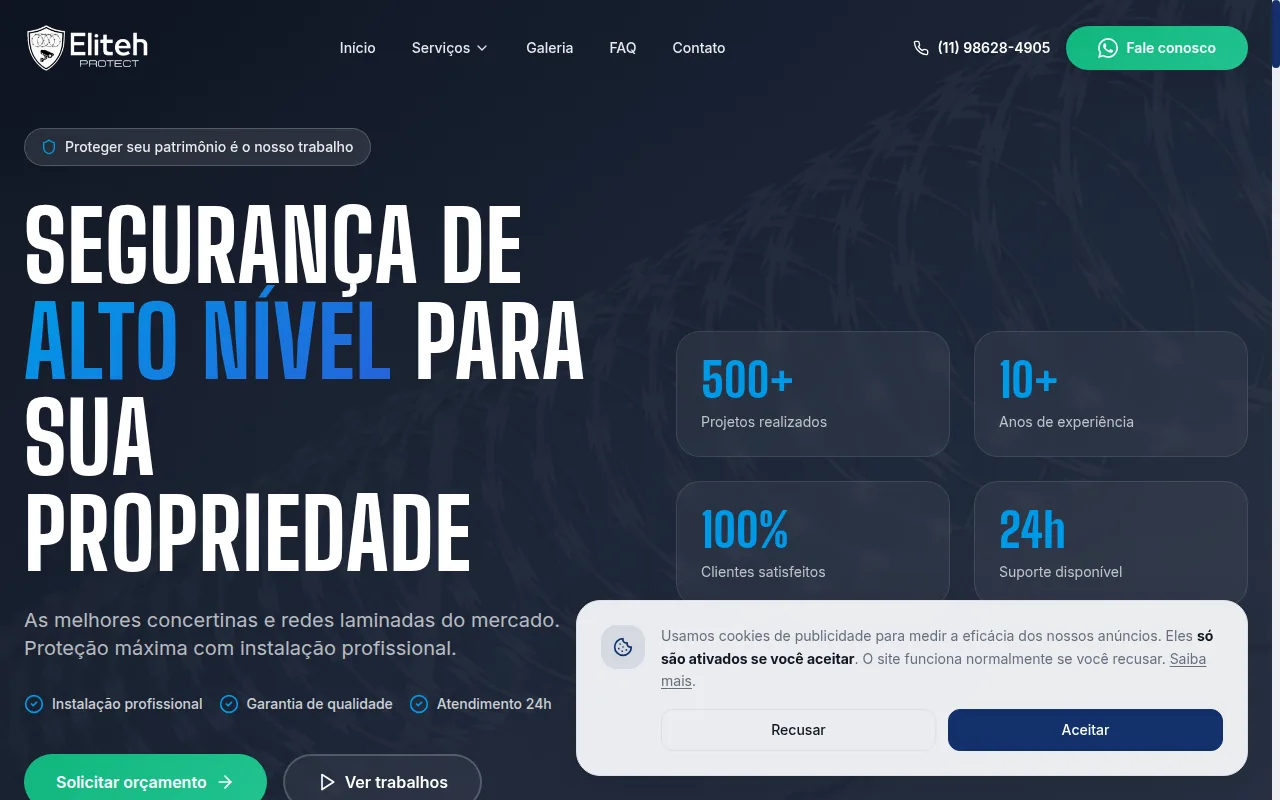
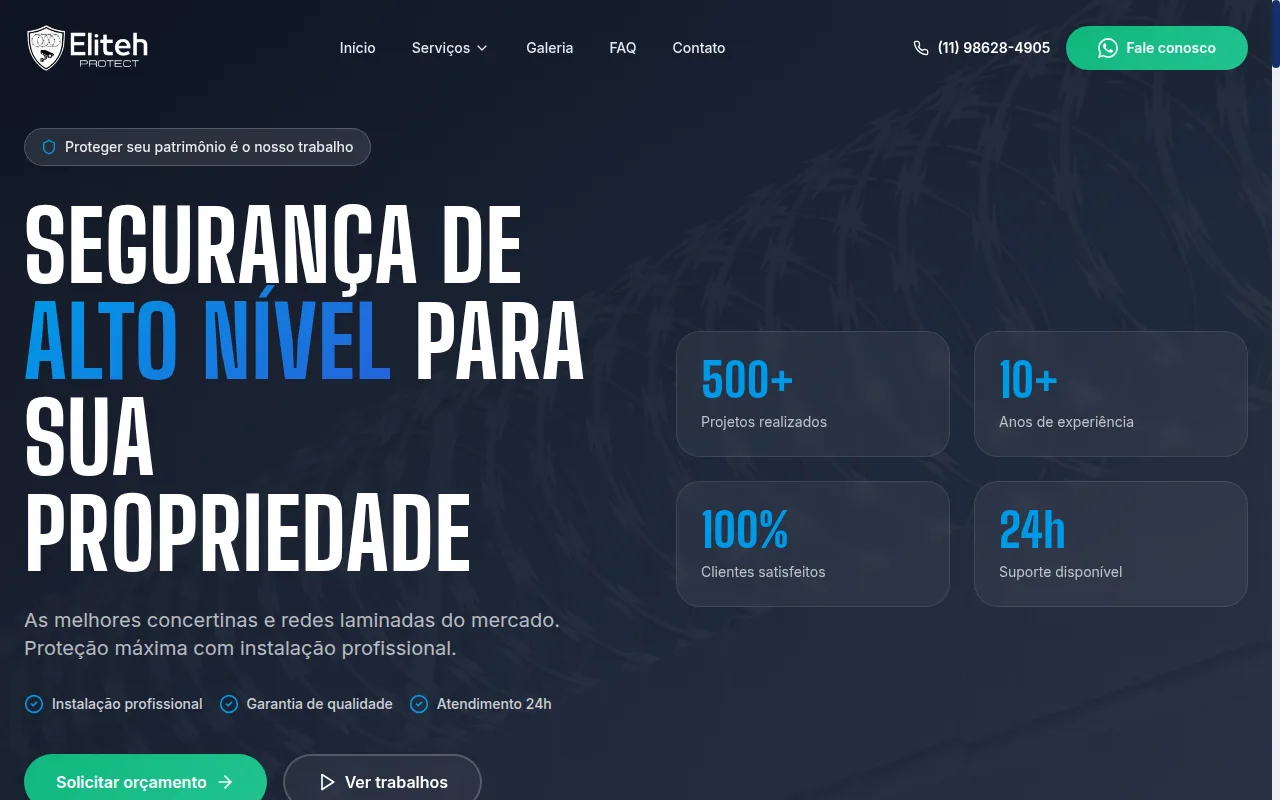
PORTFOLIO | FIX | capas dos projetos sem corte, Eliteh sem caixa de cookies e fotos originais em alta (3x4 no topo, 9:16 no sobre)

Changed region(s): [[0.4375, 0.75, 1.0, 0.9688]]

diff --git a/src/components/landing/sections.tsx b/src/components/landing/sections.tsx
@@ -9,13 +9,12 @@ import {
   useReducedMotion,
   useScroll,
   useTransform,
-  type MotionValue,
 } from "motion/react";
 import { ArrowRight, ArrowUpRight, X } from "lucide-react";
 import type { Project } from "@/lib/types";
 import { useI18n } from "@/lib/i18n";
 import { career, education } from "@/data/career";
-import { projects, AVATAR_URL, GITHUB_URL } from "@/data/projects";
+import { projects, PHOTO_9X16, GITHUB_URL } from "@/data/projects";
 import { GuiOSShowcase } from "./GuiOSShowcase";
 import { Magnetic, SplitWords } from "./fx/bits";
 import { GlareImage, Gradient, PromptCommand, SectionCrosshair, StarButton } from "./fx/rb";
@@ -146,7 +145,7 @@ function ProjectModal({ project, onClose }: { project: Project; onClose: () => v
             <img
               src={project.image}
               alt={`${project.name} — ${project.tagline[lang]}`}
-              className="h-full w-full object-cover object-top"
+              className="h-full w-full object-contain"
             />
             <button
               type="button"
@@ -234,14 +233,14 @@ function ProjectCard({ p, onOpen }: { p: Project; onOpen: () => void }) {
       className="group flex h-full w-full flex-col overflow-hidden rounded-2xl border border-line bg-(--landing-card) text-left transition-all duration-300 hover:-translate-y-1 hover:border-line-strong hover:shadow-xl hover:shadow-black/5"
     >
       {p.image && (
-        <div className="relative aspect-[16/9] w-full overflow-hidden border-b border-line bg-fill-1">
+        <div className="relative aspect-[16/10] w-full overflow-hidden border-b border-line bg-fill-1">
           <GlareImage className="absolute inset-0">
             {/* eslint-disable-next-line @next/next/no-img-element */}
             <img
               src={p.image}
               alt=""
               loading="lazy"
-              className="h-full w-full object-cover object-top transition-transform duration-500 group-hover:scale-[1.04]"
+              className="h-full w-full object-contain"
             />
           </GlareImage>
         </div>
@@ -275,37 +274,27 @@ function ProjectCard({ p, onOpen }: { p: Project; onOpen: () => void }) {
 function ProjectSlide({
   p,
   index,
-  total,
-  progress,
   onOpen,
 }: {
   p: Project;
   index: number;
-  total: number;
-  progress: MotionValue<number>;
   onOpen: () => void;
 }) {
   const { lang, t } = useI18n();
-  const center = (index + 1) / (total + 1);
-  const imgX = useTransform(progress, [center - 0.35, center + 0.35], ["7%", "-7%"]);
   return (
     <button
       type="button"
       onClick={onOpen}
       data-cursor="hover"
       data-cursor-label={t("landing.cursor.open")}
-      className="group flex w-[min(58vw,980px)] shrink-0 flex-col overflow-hidden rounded-[28px] border border-line bg-(--landing-card) text-left transition-[border-color,box-shadow] duration-300 hover:border-line-strong hover:shadow-2xl hover:shadow-black/10"
+      className="group flex w-[min(58vw,980px,calc(50vh*1.6))] shrink-0 flex-col overflow-hidden rounded-[28px] border border-line bg-(--landing-card) text-left transition-[border-color,box-shadow] duration-300 hover:border-line-strong hover:shadow-2xl hover:shadow-black/10"
     >
-      <div className="relative aspect-[16/9] max-h-[52vh] w-full overflow-hidden border-b border-line bg-fill-1">
+      {/* capturas são 16:10: a moldura tem a mesma proporção e a imagem aparece inteira */}
+      <div className="relative aspect-[16/10] w-full overflow-hidden border-b border-line bg-fill-1">
         {p.image && (
           <GlareImage className="absolute inset-0">
-            <motion.img
-              src={p.image}
-              alt=""
-              loading="lazy"
-              style={{ x: imgX }}
-              className="absolute inset-y-0 -left-[8%] h-full w-[116%] max-w-none object-cover object-top transition-transform duration-700 group-hover:scale-[1.04]"
-            />
+            {/* eslint-disable-next-line @next/next/no-img-element */}
+            <img src={p.image} alt="" loading="lazy" className="h-full w-full object-contain" />
           </GlareImage>
         )}
         <span className="absolute top-4 left-4 rounded-full bg-black/55 px-3 py-1 font-mono text-[11px] text-white backdrop-blur">
@@ -347,7 +336,7 @@ function HorizontalProjects({ onOpen }: { onOpen: (id: string) => void }) {
         </div>
       )}
     >
-      {(progress) => (
+      {() => (
         <>
           <div className="flex w-[min(34vw,560px)] shrink-0 flex-col justify-center pr-6">
             <p className="font-mono text-sm text-text-lo">
@@ -363,8 +352,6 @@ function HorizontalProjects({ onOpen }: { onOpen: (id: string) => void }) {
               key={p.id}
               p={p}
               index={i}
-              total={projects.length}
-              progress={progress}
               onOpen={() => onOpen(p.id)}
             />
           ))}
@@ -636,16 +623,16 @@ export function AboutSection() {
     <section id="sobre" className="scroll-mt-24 py-20 md:py-32">
       <Container>
         <PromptHeading command="~/sobre$ cat bio.md" title={t("landing.sec.about")} />
-        <div className="grid items-start gap-10 lg:grid-cols-[280px_1fr] lg:gap-20">
+        <div className="grid items-start gap-10 lg:grid-cols-[300px_1fr] lg:gap-20">
           <div className="lg:sticky lg:top-28">
             {/* eslint-disable-next-line @next/next/no-img-element */}
             <img
-              src={AVATAR_URL}
+              src={PHOTO_9X16}
               alt="Guilherme Carvalho"
-              width={280}
-              height={280}
+              width={720}
+              height={1280}
               loading="lazy"
-              className="aspect-square w-44 rounded-3xl border border-line object-cover lg:w-full"
+              className="aspect-[9/16] w-48 rounded-3xl border border-line object-cover lg:w-full"
             />
           </div>
           <div className="max-w-5xl space-y-10">

diff --git a/src/components/landing/Landing.tsx b/src/components/landing/Landing.tsx
@@ -6,7 +6,7 @@ import { ArrowDown, ArrowUpRight, Moon, Sun } from "lucide-react";
 import { useI18n } from "@/lib/i18n";
 import { useTheme } from "@/lib/theme";
 import { GitHubIcon, InstagramIcon, LinkedInIcon } from "@/components/ui/icons";
-import { AVATAR_URL, EMAIL, GITHUB_URL, INSTAGRAM_URL, LINKEDIN_URL } from "@/data/projects";
+import { PHOTO_3X4, EMAIL, GITHUB_URL, INSTAGRAM_URL, LINKEDIN_URL } from "@/data/projects";
 import { mainStack } from "@/data/career";
 import { ContactForm } from "./ContactForm";
 import { LandingContextMenu } from "./fx/LandingContextMenu";
@@ -190,9 +190,9 @@ function Hero() {
 
           <motion.div {...enter(0.2)} style={{ y: photoY }} className="justify-self-start lg:justify-self-end">
             <TiltPhoto
-              src={AVATAR_URL}
+              src={PHOTO_3X4}
               alt="Foto de Guilherme Carvalho"
-              className="h-56 w-56 sm:h-72 sm:w-72 lg:h-[clamp(20rem,29vw,34rem)] lg:w-[clamp(20rem,29vw,34rem)]"
+              className="aspect-[3/4] w-56 sm:w-64 lg:w-[clamp(17rem,24vw,27rem)]"
             />
           </motion.div>
         </div>

diff --git a/src/data/projects.ts b/src/data/projects.ts
@@ -4,6 +4,9 @@ export const GITHUB_URL = "https://github.com/GuiCMoreira";
 export const LINKEDIN_URL = "https://www.linkedin.com/in/guilherme-de-carvalho-moreira/";
 export const INSTAGRAM_URL = "https://www.instagram.com/_guic_m/";
 export const AVATAR_URL = "https://avatars.githubusercontent.com/u/142915547?v=4";
+// Fotos originais (regravadas sem metadados) para a landing.
+export const PHOTO_3X4 = "/me/guilherme-3x4.webp";
+export const PHOTO_9X16 = "/me/guilherme-9x16.webp";
 export const EMAIL = "gui0307carvalho@gmail.com";
 
 const allProjects: Project[] = [

diff --git a/docs/specs/2026-10-16-landing-v5-combinacao.md b/docs/specs/2026-10-16-landing-v5-combinacao.md
@@ -88,3 +88,9 @@ em tema escuro, claro e 390px; sem scroll lateral; zero erros de console.
 | Card "Desenvolvedor Web" confuso | Agora: Altec (trabalho) · FATEC (formação) · Projetos pessoais e estudos (cartão mais claro, tracejado, "por conta própria") |
 | E-mail parecia o canal principal | LinkedIn e Instagram em destaque na landing, no app Contato e no terminal do GuiOS e no menu do botão direito; e-mail virou opção secundária |
 | Formulário de contato | Assunto, nome, canais de resposta (WhatsApp, LinkedIn, e-mail, ligação) que abrem o campo de cada um, melhor horário, mensagem; validação nos dois lados, campo-armadilha e limite de envios; entrega por FormSubmit (ou Resend com `RESEND_API_KEY`) |
+
+## Rodada 3 (16/10/2026)
+
+- Capas sem corte: moldura 16:10 (a proporção das capturas), imagem inteira (`object-contain`), sem o parallax/zoom que exigia cortar as bordas; a largura do slide acompanha a altura da janela.
+- Eliteh Protect recapturada sem a caixa de cookies (cookies recusados antes do print).
+- Fotos originais em alta: 3x4 no topo e 9:16 (original inteira) em "Além do código", regravadas em webp sem metadados (as originais não tinham GPS).
